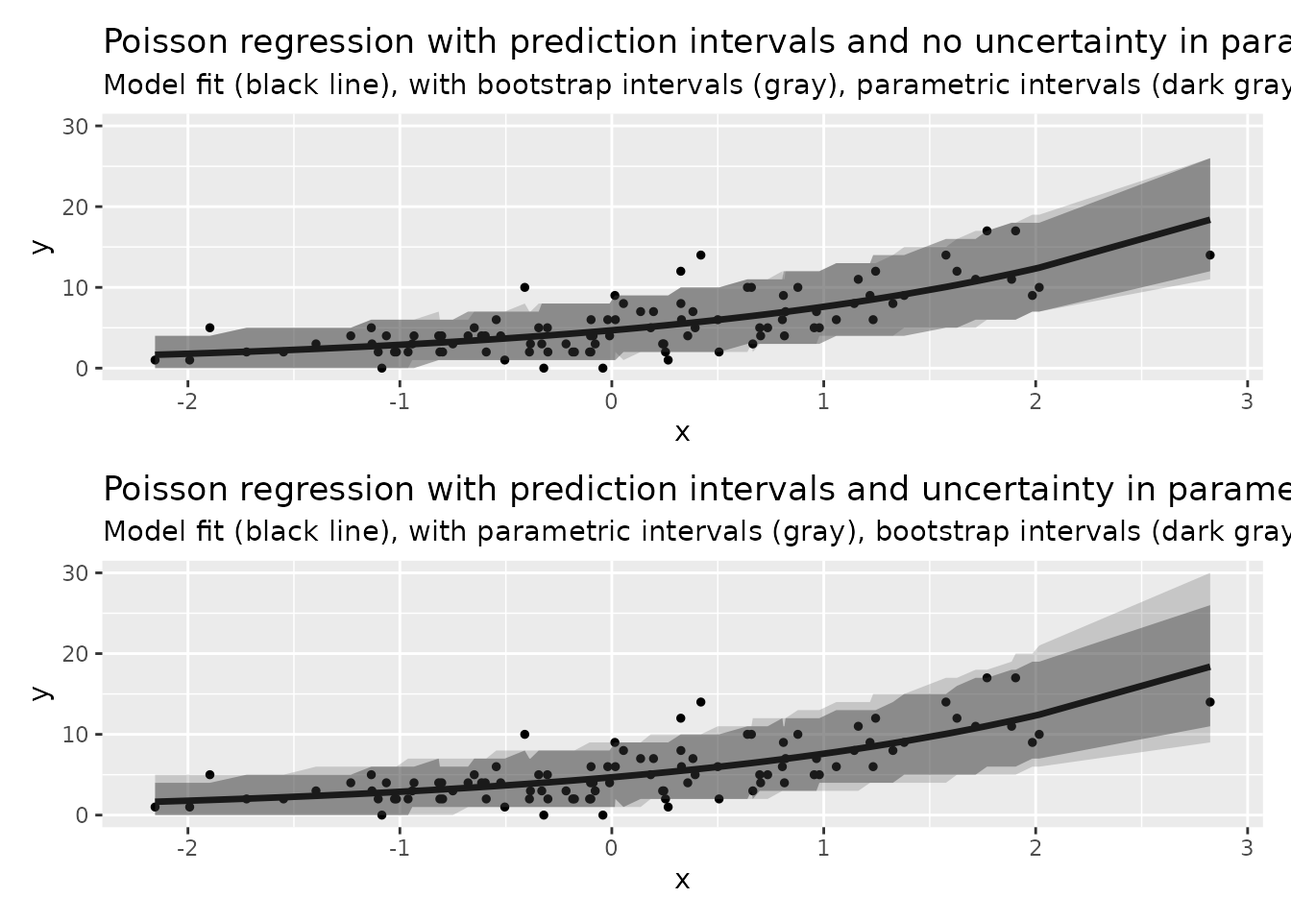
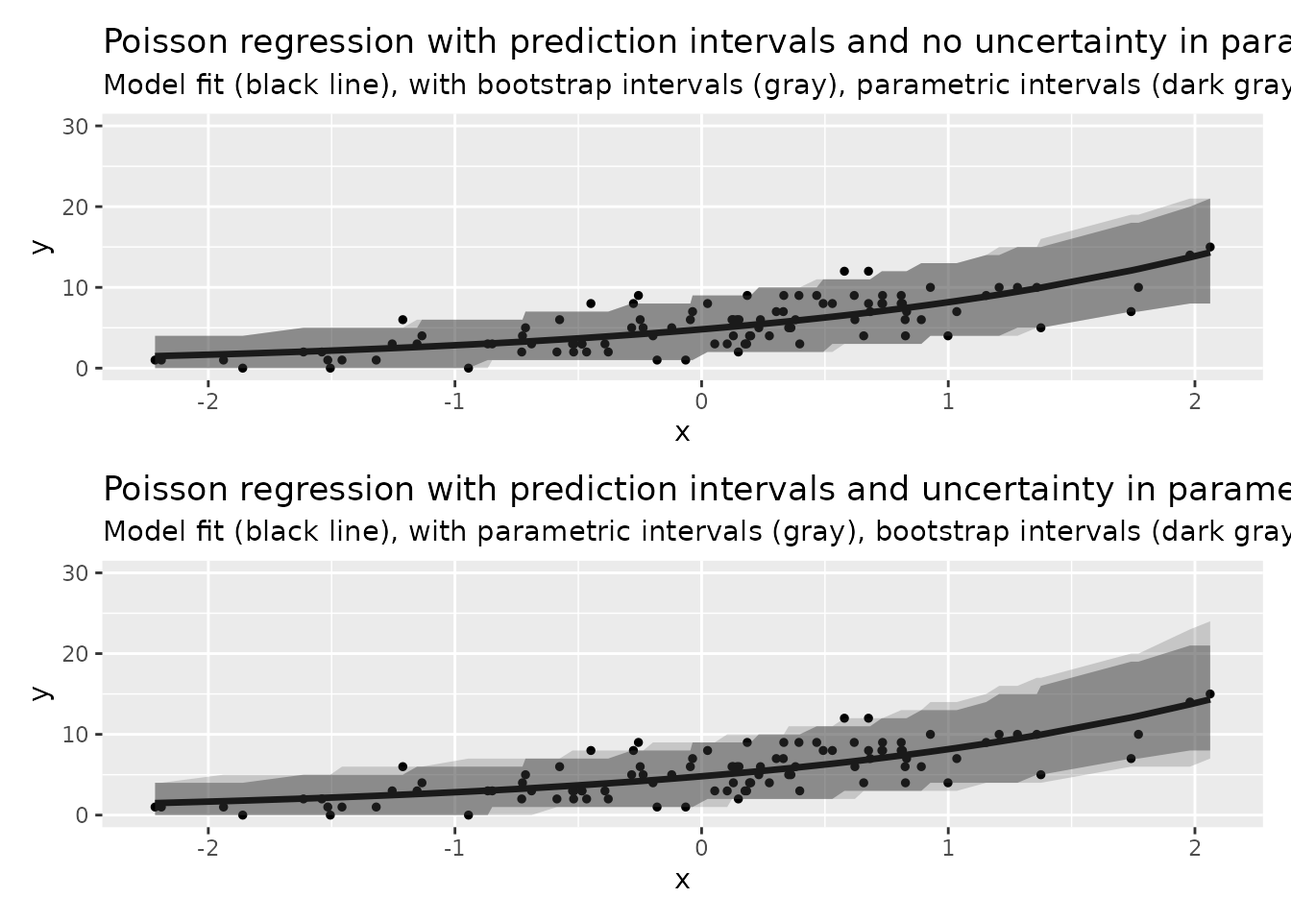
Deploying to gh-pages from @ reconverse/trending@092e5bef457bccd42e0b6546bdbc8bc8f6f4471c 🚀

Changed region(s): [[0.125, 0.625, 0.9375, 0.9062], [0.125, 0.1562, 0.9375, 0.4062]]

diff --git a/dev/articles/prediction_intervals.html b/dev/articles/prediction_intervals.html
@@ -147,13 +147,13 @@ glm vignette</a>:</p>
 <span><span class="co">#&gt; Warning in add_pi.glm(dat, fit, names = c("lpb", "upb"), alpha = 0.1, nsims =</span></span>
 <span><span class="co">#&gt; 20000): The response is not continuous, so Prediction Intervals are approximate</span></span>
 <span><span class="fu"><a href="https://rdrr.io/r/utils/head.html" class="external-link">head</a></span><span class="op">(</span><span class="va">dat1</span><span class="op">)</span></span>
-<span><span class="co">#&gt;            x  y     pred lpb upb</span></span>
-<span><span class="co">#&gt; 1  0.9656033  7 7.478368   3  12</span></span>
-<span><span class="co">#&gt; 2 -0.3886679  2 3.882521   1   7</span></span>
-<span><span class="co">#&gt; 3  1.2446994 12 8.560084   4  13</span></span>
-<span><span class="co">#&gt; 4  0.5060423  2 5.986853   2  10</span></span>
-<span><span class="co">#&gt; 5 -0.5242486  4 3.635903   1   7</span></span>
-<span><span class="co">#&gt; 6  0.3254378 12 5.485701   2  10</span></span>
+<span><span class="co">#&gt;            x y     pred lpb upb</span></span>
+<span><span class="co">#&gt; 1 -0.2371830 5 4.238952   1   8</span></span>
+<span><span class="co">#&gt; 2  0.3027586 7 5.642549   2  10</span></span>
+<span><span class="co">#&gt; 3 -0.4662134 2 3.754643   1   7</span></span>
+<span><span class="co">#&gt; 4 -0.5188776 2 3.651346   1   7</span></span>
+<span><span class="co">#&gt; 5  0.8089458 8 7.377797   3  12</span></span>
+<span><span class="co">#&gt; 6  0.8142616 8 7.398602   3  12</span></span>
 <span></span>
 <span><span class="co"># add intervals with trending (no uncertainty in parameters)</span></span>
 <span><span class="va">poisson_model</span> <span class="op">&lt;-</span> <span class="fu"><a href="../reference/trending_model.html">glm_model</a></span><span class="op">(</span><span class="va">y</span> <span class="op">~</span> <span class="va">x</span>, family <span class="op">=</span> <span class="st">"poisson"</span><span class="op">)</span></span>
@@ -164,12 +164,12 @@ glm vignette</a>:</p>
 <span><span class="co">#&gt; <span style="color: #949494;">&lt;trending_prediction&gt; 6 x 7</span></span></span>
 <span><span class="co">#&gt;       y      x estimate lower_ci upper_ci lower_pi upper_pi</span></span>
 <span><span class="co">#&gt;   <span style="color: #949494; font-style: italic;">&lt;int&gt;</span>  <span style="color: #949494; font-style: italic;">&lt;dbl&gt;</span>    <span style="color: #949494; font-style: italic;">&lt;dbl&gt;</span>    <span style="color: #949494; font-style: italic;">&lt;dbl&gt;</span>    <span style="color: #949494; font-style: italic;">&lt;dbl&gt;</span>    <span style="color: #949494; font-style: italic;">&lt;dbl&gt;</span>    <span style="color: #949494; font-style: italic;">&lt;dbl&gt;</span></span></span>
-<span><span class="co">#&gt; <span style="color: #BCBCBC;">1</span>     7  0.966     7.48     6.93     8.07        3       12</span></span>
-<span><span class="co">#&gt; <span style="color: #BCBCBC;">2</span>     2 -<span style="color: #BB0000;">0.389</span>     3.88     3.52     4.28        1        7</span></span>
-<span><span class="co">#&gt; <span style="color: #BCBCBC;">3</span>    12  1.24      8.56     7.86     9.32        4       14</span></span>
-<span><span class="co">#&gt; <span style="color: #BCBCBC;">4</span>     2  0.506     5.99     5.58     6.42        2       10</span></span>
-<span><span class="co">#&gt; <span style="color: #BCBCBC;">5</span>     4 -<span style="color: #BB0000;">0.524</span>     3.64     3.28     4.03        1        7</span></span>
-<span><span class="co">#&gt; <span style="color: #BCBCBC;">6</span>    12  0.325     5.49     5.10     5.90        2       10</span></span>
+<span><span class="co">#&gt; <span style="color: #BCBCBC;">1</span>     5 -<span style="color: #BB0000;">0.237</span>     4.24     3.88     4.64        1        8</span></span>
+<span><span class="co">#&gt; <span style="color: #BCBCBC;">2</span>     7  0.303     5.64     5.25     6.06        2       10</span></span>
+<span><span class="co">#&gt; <span style="color: #BCBCBC;">3</span>     2 -<span style="color: #BB0000;">0.466</span>     3.75     3.39     4.16        1        7</span></span>
+<span><span class="co">#&gt; <span style="color: #BCBCBC;">4</span>     2 -<span style="color: #BB0000;">0.519</span>     3.65     3.28     4.06        1        7</span></span>
+<span><span class="co">#&gt; <span style="color: #BCBCBC;">5</span>     8  0.809     7.38     6.82     7.98        3       12</span></span>
+<span><span class="co">#&gt; <span style="color: #BCBCBC;">6</span>     8  0.814     7.40     6.84     8.00        3       12</span></span>
 <span></span>
 <span><span class="co"># add intervals with trending (uncertainty in parameters)</span></span>
 <span><span class="va">dat3</span> <span class="op">&lt;-</span> <span class="fu"><a href="https://rdrr.io/r/stats/predict.html" class="external-link">predict</a></span><span class="op">(</span><span class="va">fitted_model</span>, simulate_pi <span class="op">=</span> <span class="cn">FALSE</span>, alpha <span class="op">=</span> <span class="fl">0.1</span><span class="op">)</span></span>
@@ -178,12 +178,12 @@ glm vignette</a>:</p>
 <span><span class="co">#&gt; <span style="color: #949494;">&lt;trending_prediction&gt; 6 x 7</span></span></span>
 <span><span class="co">#&gt;       y      x estimate lower_ci upper_ci lower_pi upper_pi</span></span>
 <span><span class="co">#&gt;   <span style="color: #949494; font-style: italic;">&lt;int&gt;</span>  <span style="color: #949494; font-style: italic;">&lt;dbl&gt;</span>    <span style="color: #949494; font-style: italic;">&lt;dbl&gt;</span>    <span style="color: #949494; font-style: italic;">&lt;dbl&gt;</span>    <span style="color: #949494; font-style: italic;">&lt;dbl&gt;</span>    <span style="color: #949494; font-style: italic;">&lt;dbl&gt;</span>    <span style="color: #949494; font-style: italic;">&lt;dbl&gt;</span></span></span>
-<span><span class="co">#&gt; <span style="color: #BCBCBC;">1</span>     7  0.966     7.48     6.93     8.07        3       13</span></span>
-<span><span class="co">#&gt; <span style="color: #BCBCBC;">2</span>     2 -<span style="color: #BB0000;">0.389</span>     3.88     3.52     4.28        1        8</span></span>
-<span><span class="co">#&gt; <span style="color: #BCBCBC;">3</span>    12  1.24      8.56     7.86     9.32        4       15</span></span>
-<span><span class="co">#&gt; <span style="color: #BCBCBC;">4</span>     2  0.506     5.99     5.58     6.42        2       11</span></span>
-<span><span class="co">#&gt; <span style="color: #BCBCBC;">5</span>     4 -<span style="color: #BB0000;">0.524</span>     3.64     3.28     4.03        1        8</span></span>
-<span><span class="co">#&gt; <span style="color: #BCBCBC;">6</span>    12  0.325     5.49     5.10     5.90        2       10</span></span>
+<span><span class="co">#&gt; <span style="color: #BCBCBC;">1</span>     5 -<span style="color: #BB0000;">0.237</span>     4.24     3.88     4.64        1        8</span></span>
+<span><span class="co">#&gt; <span style="color: #BCBCBC;">2</span>     7  0.303     5.64     5.25     6.06        2       10</span></span>
+<span><span class="co">#&gt; <span style="color: #BCBCBC;">3</span>     2 -<span style="color: #BB0000;">0.466</span>     3.75     3.39     4.16        1        8</span></span>
+<span><span class="co">#&gt; <span style="color: #BCBCBC;">4</span>     2 -<span style="color: #BB0000;">0.519</span>     3.65     3.28     4.06        1        8</span></span>
+<span><span class="co">#&gt; <span style="color: #BCBCBC;">5</span>     8  0.809     7.38     6.82     7.98        3       13</span></span>
+<span><span class="co">#&gt; <span style="color: #BCBCBC;">6</span>     8  0.814     7.40     6.84     8.00        3       13</span></span>
 <span></span>
 <span><span class="co"># plots</span></span>
 <span><span class="va">p1</span> <span class="op">&lt;-</span> <span class="fu"><a href="https://ggplot2.tidyverse.org/reference/ggplot.html" class="external-link">ggplot</a></span><span class="op">(</span><span class="va">dat1</span>, <span class="fu"><a href="https://ggplot2.tidyverse.org/reference/aes.html" class="external-link">aes</a></span><span class="op">(</span><span class="va">x</span>, <span class="va">y</span><span class="op">)</span><span class="op">)</span> <span class="op">+</span></span>
@@ -230,12 +230,12 @@ glm vignette</a>:</p>
 <span><span class="co">#&gt; 20000): The response is not continuous, so Prediction Intervals are approximate</span></span>
 <span><span class="fu"><a href="https://rdrr.io/r/utils/head.html" class="external-link">head</a></span><span class="op">(</span><span class="va">dat1</span><span class="op">)</span></span>
 <span><span class="co">#&gt;           x  y      pred lpb upb</span></span>
-<span><span class="co">#&gt; 1 0.6870865  5  5.204962   0  15</span></span>
-<span><span class="co">#&gt; 2 1.5555912  0 13.931078   3  29</span></span>
-<span><span class="co">#&gt; 3 0.1915422  7  2.967972   0  10</span></span>
-<span><span class="co">#&gt; 4 1.0723759 13  8.055575   1  20</span></span>
-<span><span class="co">#&gt; 5 1.6269971 13 15.105602   4  31</span></span>
-<span><span class="co">#&gt; 6 1.6730471  7 15.915072   4  33</span></span>
+<span><span class="co">#&gt; 1 1.3185688  7  9.315308   2  20</span></span>
+<span><span class="co">#&gt; 2 0.8402462  6  5.094015   0  13</span></span>
+<span><span class="co">#&gt; 3 1.6213157 16 13.649373   4  27</span></span>
+<span><span class="co">#&gt; 4 1.0692339  6  6.800694   1  16</span></span>
+<span><span class="co">#&gt; 5 0.3934254  2  2.898594   0  10</span></span>
+<span><span class="co">#&gt; 6 0.2041044 12  2.282617   0   8</span></span>
 <span></span>
 <span><span class="co"># add intervals with trending (no uncertainty in parameters)</span></span>
 <span><span class="va">quasipoisson_model</span> <span class="op">&lt;-</span> <span class="fu"><a href="../reference/trending_model.html">glm_model</a></span><span class="op">(</span><span class="va">y</span> <span class="op">~</span> <span class="va">x</span>, family <span class="op">=</span> <span class="fu"><a href="https://rdrr.io/r/stats/family.html" class="external-link">quasipoisson</a></span><span class="op">(</span>link <span class="op">=</span> <span class="st">"log"</span><span class="op">)</span><span class="op">)</span></span>
@@ -246,12 +246,12 @@ glm vignette</a>:</p>
 <span><span class="co">#&gt; <span style="color: #949494;">&lt;trending_prediction&gt; 6 x 7</span></span></span>
 <span><span class="co">#&gt;       y     x estimate lower_ci upper_ci lower_pi upper_pi</span></span>
 <span><span class="co">#&gt;   <span style="color: #949494; font-style: italic;">&lt;int&gt;</span> <span style="color: #949494; font-style: italic;">&lt;dbl&gt;</span>    <span style="color: #949494; font-style: italic;">&lt;dbl&gt;</span>    <span style="color: #949494; font-style: italic;">&lt;dbl&gt;</span>    <span style="color: #949494; font-style: italic;">&lt;dbl&gt;</span>    <span style="color: #949494; font-style: italic;">&lt;dbl&gt;</span>    <span style="color: #949494; font-style: italic;">&lt;dbl&gt;</span></span></span>
-<span><span class="co">#&gt; <span style="color: #BCBCBC;">1</span>     5 0.687     5.20     4.28     6.33        0       15</span></span>
-<span><span class="co">#&gt; <span style="color: #BCBCBC;">2</span>     0 1.56     13.9     12.3     15.8         3       29</span></span>
-<span><span class="co">#&gt; <span style="color: #BCBCBC;">3</span>     7 0.192     2.97     2.21     3.98        0       11</span></span>
-<span><span class="co">#&gt; <span style="color: #BCBCBC;">4</span>    13 1.07      8.06     7.03     9.23        1       20</span></span>
-<span><span class="co">#&gt; <span style="color: #BCBCBC;">5</span>    13 1.63     15.1     13.2     17.3         4       31</span></span>
-<span><span class="co">#&gt; <span style="color: #BCBCBC;">6</span>     7 1.67     15.9     13.8     18.3         4       32</span></span>
+<span><span class="co">#&gt; <span style="color: #BCBCBC;">1</span>     7 1.32      9.32     8.34    10.4         2       20</span></span>
+<span><span class="co">#&gt; <span style="color: #BCBCBC;">2</span>     6 0.840     5.09     4.35     5.97        0       13</span></span>
+<span><span class="co">#&gt; <span style="color: #BCBCBC;">3</span>    16 1.62     13.6     12.0     15.5         4       26</span></span>
+<span><span class="co">#&gt; <span style="color: #BCBCBC;">4</span>     6 1.07      6.80     5.99     7.72        1       16</span></span>
+<span><span class="co">#&gt; <span style="color: #BCBCBC;">5</span>     2 0.393     2.90     2.28     3.69        0        9</span></span>
+<span><span class="co">#&gt; <span style="color: #BCBCBC;">6</span>    12 0.204     2.28     1.72     3.02        0        8</span></span>
 <span></span>
 <span><span class="co"># add intervals with trending (uncertainty in parameters)</span></span>
 <span><span class="va">dat3</span> <span class="op">&lt;-</span> <span class="fu"><a href="https://rdrr.io/r/stats/predict.html" class="external-link">predict</a></span><span class="op">(</span><span class="va">fitted_model</span>, simulate_pi <span class="op">=</span> <span class="cn">FALSE</span>, alpha <span class="op">=</span> <span class="fl">0.1</span><span class="op">)</span></span>
@@ -260,12 +260,12 @@ glm vignette</a>:</p>
 <span><span class="co">#&gt; <span style="color: #949494;">&lt;trending_prediction&gt; 6 x 7</span></span></span>
 <span><span class="co">#&gt;       y     x estimate lower_ci upper_ci lower_pi upper_pi</span></span>
 <span><span class="co">#&gt;   <span style="color: #949494; font-style: italic;">&lt;int&gt;</span> <span style="color: #949494; font-style: italic;">&lt;dbl&gt;</span>    <span style="color: #949494; font-style: italic;">&lt;dbl&gt;</span>    <span style="color: #949494; font-style: italic;">&lt;dbl&gt;</span>    <span style="color: #949494; font-style: italic;">&lt;dbl&gt;</span>    <span style="color: #949494; font-style: italic;">&lt;dbl&gt;</span>    <span style="color: #949494; font-style: italic;">&lt;dbl&gt;</span></span></span>
-<span><span class="co">#&gt; <span style="color: #BCBCBC;">1</span>     5 0.687     5.20     4.28     6.33        0       17</span></span>
-<span><span class="co">#&gt; <span style="color: #BCBCBC;">2</span>     0 1.56     13.9     12.3     15.8         3       32</span></span>
-<span><span class="co">#&gt; <span style="color: #BCBCBC;">3</span>     7 0.192     2.97     2.21     3.98        0       13</span></span>
-<span><span class="co">#&gt; <span style="color: #BCBCBC;">4</span>    13 1.07      8.06     7.03     9.23        0       22</span></span>
-<span><span class="co">#&gt; <span style="color: #BCBCBC;">5</span>    13 1.63     15.1     13.2     17.3         3       34</span></span>
-<span><span class="co">#&gt; <span style="color: #BCBCBC;">6</span>     7 1.67     15.9     13.8     18.3         3       36</span></span>
+<span><span class="co">#&gt; <span style="color: #BCBCBC;">1</span>     7 1.32      9.32     8.34    10.4         2       22</span></span>
+<span><span class="co">#&gt; <span style="color: #BCBCBC;">2</span>     6 0.840     5.09     4.35     5.97        0       15</span></span>
+<span><span class="co">#&gt; <span style="color: #BCBCBC;">3</span>    16 1.62     13.6     12.0     15.5         3       29</span></span>
+<span><span class="co">#&gt; <span style="color: #BCBCBC;">4</span>     6 1.07      6.80     5.99     7.72        1       17</span></span>
+<span><span class="co">#&gt; <span style="color: #BCBCBC;">5</span>     2 0.393     2.90     2.28     3.69        0       11</span></span>
+<span><span class="co">#&gt; <span style="color: #BCBCBC;">6</span>    12 0.204     2.28     1.72     3.02        0        9</span></span>
 <span></span>
 <span><span class="co"># plots</span></span>
 <span><span class="va">p3</span> <span class="op">&lt;-</span> <span class="fu"><a href="https://ggplot2.tidyverse.org/reference/ggplot.html" class="external-link">ggplot</a></span><span class="op">(</span><span class="va">dat1</span>, <span class="fu"><a href="https://ggplot2.tidyverse.org/reference/aes.html" class="external-link">aes</a></span><span class="op">(</span><span class="va">x</span>, <span class="va">y</span><span class="op">)</span><span class="op">)</span> <span class="op">+</span></span>

diff --git a/dev/articles/Introduction.html b/dev/articles/Introduction.html
@@ -240,20 +240,20 @@ list.</p></li>
 <span><span class="co">#&gt; <span style="color: #949494;">&lt;trending_prediction&gt; 14 x 8</span></span></span>
 <span><span class="co">#&gt;    date         day weekday      estimate lower_ci upper_ci lower_pi upper_pi</span></span>
 <span><span class="co">#&gt;    <span style="color: #949494; font-style: italic;">&lt;date&gt;</span>     <span style="color: #949494; font-style: italic;">&lt;int&gt;</span> <span style="color: #949494; font-style: italic;">&lt;fct&gt;</span>           <span style="color: #949494; font-style: italic;">&lt;dbl&gt;</span>    <span style="color: #949494; font-style: italic;">&lt;dbl&gt;</span>    <span style="color: #949494; font-style: italic;">&lt;dbl&gt;</span>    <span style="color: #949494; font-style: italic;">&lt;dbl&gt;</span>    <span style="color: #949494; font-style: italic;">&lt;dbl&gt;</span></span></span>
-<span><span class="co">#&gt; <span style="color: #BCBCBC;"> 1</span> 2020-05-15    58 rest_of_week   <span style="text-decoration: underline;">12</span>682.   <span style="text-decoration: underline;">11</span>390.   <span style="text-decoration: underline;">14</span>122.     <span style="text-decoration: underline;">8</span>817    <span style="text-decoration: underline;">17</span>315</span></span>
-<span><span class="co">#&gt; <span style="color: #BCBCBC;"> 2</span> 2020-05-16    59 weekend        <span style="text-decoration: underline;">10</span>625.    <span style="text-decoration: underline;">9</span>299.   <span style="text-decoration: underline;">12</span>140.     <span style="text-decoration: underline;">7</span>413    <span style="text-decoration: underline;">14</span>621</span></span>
-<span><span class="co">#&gt; <span style="color: #BCBCBC;"> 3</span> 2020-05-17    60 weekend        <span style="text-decoration: underline;">10</span>262.    <span style="text-decoration: underline;">8</span>956.   <span style="text-decoration: underline;">11</span>759.     <span style="text-decoration: underline;">7</span>221    <span style="text-decoration: underline;">14</span>228</span></span>
-<span><span class="co">#&gt; <span style="color: #BCBCBC;"> 4</span> 2020-05-18    61 monday         <span style="text-decoration: underline;">13</span>840.   <span style="text-decoration: underline;">11</span>749.   <span style="text-decoration: underline;">16</span>303.     <span style="text-decoration: underline;">9</span>639    <span style="text-decoration: underline;">19</span>145</span></span>
-<span><span class="co">#&gt; <span style="color: #BCBCBC;"> 5</span> 2020-05-19    62 rest_of_week   <span style="text-decoration: underline;">11</span>036.    <span style="text-decoration: underline;">9</span>782.   <span style="text-decoration: underline;">12</span>450.     <span style="text-decoration: underline;">7</span>771    <span style="text-decoration: underline;">15</span>271</span></span>
-<span><span class="co">#&gt; <span style="color: #BCBCBC;"> 6</span> 2020-05-20    63 rest_of_week   <span style="text-decoration: underline;">10</span>659.    <span style="text-decoration: underline;">9</span>416.   <span style="text-decoration: underline;">12</span>066.     <span style="text-decoration: underline;">7</span>572    <span style="text-decoration: underline;">14</span>603</span></span>
-<span><span class="co">#&gt; <span style="color: #BCBCBC;"> 7</span> 2020-05-21    64 rest_of_week   <span style="text-decoration: underline;">10</span>295.    <span style="text-decoration: underline;">9</span>064.   <span style="text-decoration: underline;">11</span>693.     <span style="text-decoration: underline;">7</span>188    <span style="text-decoration: underline;">14</span>059</span></span>
-<span><span class="co">#&gt; <span style="color: #BCBCBC;"> 8</span> 2020-05-22    65 rest_of_week    <span style="text-decoration: underline;">9</span>943.    <span style="text-decoration: underline;">8</span>724.   <span style="text-decoration: underline;">11</span>333.     <span style="text-decoration: underline;">6</span>925    <span style="text-decoration: underline;">13</span>642</span></span>
-<span><span class="co">#&gt; <span style="color: #BCBCBC;"> 9</span> 2020-05-23    66 weekend         <span style="text-decoration: underline;">8</span>330.    <span style="text-decoration: underline;">7</span>138.    <span style="text-decoration: underline;">9</span>721.     <span style="text-decoration: underline;">5</span>704    <span style="text-decoration: underline;">11</span>511</span></span>
-<span><span class="co">#&gt; <span style="color: #BCBCBC;">10</span> 2020-05-24    67 weekend         <span style="text-decoration: underline;">8</span>045.    <span style="text-decoration: underline;">6</span>872.    <span style="text-decoration: underline;">9</span>419.     <span style="text-decoration: underline;">5</span>450    <span style="text-decoration: underline;">11</span>391</span></span>
-<span><span class="co">#&gt; <span style="color: #BCBCBC;">11</span> 2020-05-25    68 monday         <span style="text-decoration: underline;">10</span>851.    <span style="text-decoration: underline;">9</span>048.   <span style="text-decoration: underline;">13</span>012.     <span style="text-decoration: underline;">7</span>633    <span style="text-decoration: underline;">15</span>412</span></span>
-<span><span class="co">#&gt; <span style="color: #BCBCBC;">12</span> 2020-05-26    69 rest_of_week    <span style="text-decoration: underline;">8</span>652.    <span style="text-decoration: underline;">7</span>486.   <span style="text-decoration: underline;">10</span>001.     <span style="text-decoration: underline;">5</span>985    <span style="text-decoration: underline;">12</span>216</span></span>
-<span><span class="co">#&gt; <span style="color: #BCBCBC;">13</span> 2020-05-27    70 rest_of_week    <span style="text-decoration: underline;">8</span>357.    <span style="text-decoration: underline;">7</span>204.    <span style="text-decoration: underline;">9</span>694.     <span style="text-decoration: underline;">5</span>704    <span style="text-decoration: underline;">11</span>347</span></span>
-<span><span class="co">#&gt; <span style="color: #BCBCBC;">14</span> 2020-05-28    71 rest_of_week    <span style="text-decoration: underline;">8</span>071.    <span style="text-decoration: underline;">6</span>933.    <span style="text-decoration: underline;">9</span>396.     <span style="text-decoration: underline;">5</span>633    <span style="text-decoration: underline;">11</span>269</span></span></code></pre></div>
+<span><span class="co">#&gt; <span style="color: #BCBCBC;"> 1</span> 2020-05-15    58 rest_of_week   <span style="text-decoration: underline;">12</span>682.   <span style="text-decoration: underline;">11</span>390.   <span style="text-decoration: underline;">14</span>122.     <span style="text-decoration: underline;">8</span>819    <span style="text-decoration: underline;">17</span>213</span></span>
+<span><span class="co">#&gt; <span style="color: #BCBCBC;"> 2</span> 2020-05-16    59 weekend        <span style="text-decoration: underline;">10</span>625.    <span style="text-decoration: underline;">9</span>299.   <span style="text-decoration: underline;">12</span>140.     <span style="text-decoration: underline;">7</span>347    <span style="text-decoration: underline;">14</span>590</span></span>
+<span><span class="co">#&gt; <span style="color: #BCBCBC;"> 3</span> 2020-05-17    60 weekend        <span style="text-decoration: underline;">10</span>262.    <span style="text-decoration: underline;">8</span>956.   <span style="text-decoration: underline;">11</span>759.     <span style="text-decoration: underline;">7</span>215    <span style="text-decoration: underline;">13</span>960</span></span>
+<span><span class="co">#&gt; <span style="color: #BCBCBC;"> 4</span> 2020-05-18    61 monday         <span style="text-decoration: underline;">13</span>840.   <span style="text-decoration: underline;">11</span>749.   <span style="text-decoration: underline;">16</span>303.     <span style="text-decoration: underline;">9</span>526    <span style="text-decoration: underline;">19</span>036</span></span>
+<span><span class="co">#&gt; <span style="color: #BCBCBC;"> 5</span> 2020-05-19    62 rest_of_week   <span style="text-decoration: underline;">11</span>036.    <span style="text-decoration: underline;">9</span>782.   <span style="text-decoration: underline;">12</span>450.     <span style="text-decoration: underline;">7</span>655    <span style="text-decoration: underline;">14</span>853</span></span>
+<span><span class="co">#&gt; <span style="color: #BCBCBC;"> 6</span> 2020-05-20    63 rest_of_week   <span style="text-decoration: underline;">10</span>659.    <span style="text-decoration: underline;">9</span>416.   <span style="text-decoration: underline;">12</span>066.     <span style="text-decoration: underline;">7</span>404    <span style="text-decoration: underline;">14</span>528</span></span>
+<span><span class="co">#&gt; <span style="color: #BCBCBC;"> 7</span> 2020-05-21    64 rest_of_week   <span style="text-decoration: underline;">10</span>295.    <span style="text-decoration: underline;">9</span>064.   <span style="text-decoration: underline;">11</span>693.     <span style="text-decoration: underline;">7</span>244    <span style="text-decoration: underline;">13</span>867</span></span>
+<span><span class="co">#&gt; <span style="color: #BCBCBC;"> 8</span> 2020-05-22    65 rest_of_week    <span style="text-decoration: underline;">9</span>943.    <span style="text-decoration: underline;">8</span>724.   <span style="text-decoration: underline;">11</span>333.     <span style="text-decoration: underline;">6</span>834    <span style="text-decoration: underline;">13</span>646</span></span>
+<span><span class="co">#&gt; <span style="color: #BCBCBC;"> 9</span> 2020-05-23    66 weekend         <span style="text-decoration: underline;">8</span>330.    <span style="text-decoration: underline;">7</span>138.    <span style="text-decoration: underline;">9</span>721.     <span style="text-decoration: underline;">5</span>627    <span style="text-decoration: underline;">11</span>459</span></span>
+<span><span class="co">#&gt; <span style="color: #BCBCBC;">10</span> 2020-05-24    67 weekend         <span style="text-decoration: underline;">8</span>045.    <span style="text-decoration: underline;">6</span>872.    <span style="text-decoration: underline;">9</span>419.     <span style="text-decoration: underline;">5</span>524    <span style="text-decoration: underline;">10</span>948</span></span>
+<span><span class="co">#&gt; <span style="color: #BCBCBC;">11</span> 2020-05-25    68 monday         <span style="text-decoration: underline;">10</span>851.    <span style="text-decoration: underline;">9</span>048.   <span style="text-decoration: underline;">13</span>012.     <span style="text-decoration: underline;">7</span>248    <span style="text-decoration: underline;">15</span>147</span></span>
+<span><span class="co">#&gt; <span style="color: #BCBCBC;">12</span> 2020-05-26    69 rest_of_week    <span style="text-decoration: underline;">8</span>652.    <span style="text-decoration: underline;">7</span>486.   <span style="text-decoration: underline;">10</span>001.     <span style="text-decoration: underline;">5</span>954    <span style="text-decoration: underline;">11</span>921</span></span>
+<span><span class="co">#&gt; <span style="color: #BCBCBC;">13</span> 2020-05-27    70 rest_of_week    <span style="text-decoration: underline;">8</span>357.    <span style="text-decoration: underline;">7</span>204.    <span style="text-decoration: underline;">9</span>694.     <span style="text-decoration: underline;">5</span>699    <span style="text-decoration: underline;">11</span>494</span></span>
+<span><span class="co">#&gt; <span style="color: #BCBCBC;">14</span> 2020-05-28    71 rest_of_week    <span style="text-decoration: underline;">8</span>071.    <span style="text-decoration: underline;">6</span>933.    <span style="text-decoration: underline;">9</span>396.     <span style="text-decoration: underline;">5</span>611    <span style="text-decoration: underline;">11</span>173</span></span></code></pre></div>
 </div>
 <div class="section level3">
 <h3 id="example-of-failed-model-fitting">Example of failed model fitting<a class="anchor" aria-label="anchor" href="#example-of-failed-model-fitting"></a>

diff --git a/dev/reference/predict.trending_model.html b/dev/reference/predict.trending_model.html
@@ -180,18 +180,18 @@ confidence and or prediction intervals. <code>NULL</code> if the associated
 <span class="r-in"><span><span class="fu"><a href="https://rdrr.io/r/stats/predict.html" class="external-link">predict</a></span><span class="op">(</span><span class="va">poisson_model</span>, <span class="va">dat</span>, as_tibble <span class="op">=</span> <span class="cn">FALSE</span><span class="op">)</span></span></span>
 <span class="r-out co"><span class="r-pr">#&gt;</span> $result</span>
 <span class="r-out co"><span class="r-pr">#&gt;</span> <span style="color: #949494;">&lt;trending_prediction&gt; 100 x 7</span></span>
-<span class="r-out co"><span class="r-pr">#&gt;</span>         x     y estimate lower_ci upper_ci lower_pi upper_pi</span>
-<span class="r-out co"><span class="r-pr">#&gt;</span>     <span style="color: #949494; font-style: italic;">&lt;dbl&gt;</span> <span style="color: #949494; font-style: italic;">&lt;int&gt;</span>    <span style="color: #949494; font-style: italic;">&lt;dbl&gt;</span>    <span style="color: #949494; font-style: italic;">&lt;dbl&gt;</span>    <span style="color: #949494; font-style: italic;">&lt;dbl&gt;</span>    <span style="color: #949494; font-style: italic;">&lt;dbl&gt;</span>    <span style="color: #949494; font-style: italic;">&lt;dbl&gt;</span></span>
-<span class="r-out co"><span class="r-pr">#&gt;</span> <span style="color: #BCBCBC;"> 1</span> -<span style="color: #BB0000;">0.138</span>     2     4.08     3.68     4.52        0        9</span>
-<span class="r-out co"><span class="r-pr">#&gt;</span> <span style="color: #BCBCBC;"> 2</span>  0.517     6     5.59     5.11     6.11        1       11</span>
-<span class="r-out co"><span class="r-pr">#&gt;</span> <span style="color: #BCBCBC;"> 3</span> -<span style="color: #BB0000;">0.197</span>     2     3.96     3.57     4.40        0        9</span>
-<span class="r-out co"><span class="r-pr">#&gt;</span> <span style="color: #BCBCBC;"> 4</span> -<span style="color: #BB0000;">1.85</span>      1     1.79     1.46     2.21        0        6</span>
-<span class="r-out co"><span class="r-pr">#&gt;</span> <span style="color: #BCBCBC;"> 5</span> -<span style="color: #BB0000;">0.575</span>     4     3.31     2.92     3.74        0        8</span>
-<span class="r-out co"><span class="r-pr">#&gt;</span> <span style="color: #BCBCBC;"> 6</span> -<span style="color: #BB0000;">1.77</span>      0     1.87     1.52     2.28        0        6</span>
-<span class="r-out co"><span class="r-pr">#&gt;</span> <span style="color: #BCBCBC;"> 7</span>  0.946     7     6.86     6.23     7.56        2       13</span>
-<span class="r-out co"><span class="r-pr">#&gt;</span> <span style="color: #BCBCBC;"> 8</span> -<span style="color: #BB0000;">1.29</span>      2     2.34     1.98     2.77        0        6</span>
-<span class="r-out co"><span class="r-pr">#&gt;</span> <span style="color: #BCBCBC;"> 9</span> -<span style="color: #BB0000;">0.971</span>     2     2.74     2.36     3.17        0        7</span>
-<span class="r-out co"><span class="r-pr">#&gt;</span> <span style="color: #BCBCBC;">10</span> -<span style="color: #BB0000;">0.861</span>     6     2.88     2.51     3.32        0        7</span>
+<span class="r-out co"><span class="r-pr">#&gt;</span>          x     y estimate lower_ci upper_ci lower_pi upper_pi</span>
+<span class="r-out co"><span class="r-pr">#&gt;</span>      <span style="color: #949494; font-style: italic;">&lt;dbl&gt;</span> <span style="color: #949494; font-style: italic;">&lt;int&gt;</span>    <span style="color: #949494; font-style: italic;">&lt;dbl&gt;</span>    <span style="color: #949494; font-style: italic;">&lt;dbl&gt;</span>    <span style="color: #949494; font-style: italic;">&lt;dbl&gt;</span>    <span style="color: #949494; font-style: italic;">&lt;dbl&gt;</span>    <span style="color: #949494; font-style: italic;">&lt;dbl&gt;</span></span>
+<span class="r-out co"><span class="r-pr">#&gt;</span> <span style="color: #BCBCBC;"> 1</span>  1.00       4     7.10     6.42     7.86        2       14</span>
+<span class="r-out co"><span class="r-pr">#&gt;</span> <span style="color: #BCBCBC;"> 2</span> -<span style="color: #BB0000;">0.205</span>      5     4.49     4.06     4.96        1       10</span>
+<span class="r-out co"><span class="r-pr">#&gt;</span> <span style="color: #BCBCBC;"> 3</span> -<span style="color: #BB0000;">0.802</span>      2     3.58     3.13     4.09        0        8</span>
+<span class="r-out co"><span class="r-pr">#&gt;</span> <span style="color: #BCBCBC;"> 4</span>  1.16       6     7.54     6.76     8.41        2       15</span>
+<span class="r-out co"><span class="r-pr">#&gt;</span> <span style="color: #BCBCBC;"> 5</span> -<span style="color: #BB0000;">1.63</span>       2     2.61     2.15     3.18        0        7</span>
+<span class="r-out co"><span class="r-pr">#&gt;</span> <span style="color: #BCBCBC;"> 6</span> -<span style="color: #BB0000;">0.928</span>      4     3.41     2.95     3.93        0        8</span>
+<span class="r-out co"><span class="r-pr">#&gt;</span> <span style="color: #BCBCBC;"> 7</span>  0.669      6     6.26     5.73     6.85        2       12</span>
+<span class="r-out co"><span class="r-pr">#&gt;</span> <span style="color: #BCBCBC;"> 8</span> -<span style="color: #BB0000;">0.511</span>      6     4.00     3.56     4.49        0        9</span>
+<span class="r-out co"><span class="r-pr">#&gt;</span> <span style="color: #BCBCBC;"> 9</span>  0.781      8     6.53     5.96     7.17        2       13</span>
+<span class="r-out co"><span class="r-pr">#&gt;</span> <span style="color: #BCBCBC;">10</span>  0.073<span style="text-decoration: underline;">7</span>     5     4.99     4.56     5.46        1       10</span>
 <span class="r-out co"><span class="r-pr">#&gt;</span> <span style="color: #949494;"># … with 90 more rows</span></span>
 <span class="r-out co"><span class="r-pr">#&gt;</span> </span>
 <span class="r-out co"><span class="r-pr">#&gt;</span> $warnings</span>

diff --git a/dev/reference/accessors.html b/dev/reference/accessors.html
@@ -250,16 +250,16 @@
 <span class="r-out co"><span class="r-pr">#&gt;</span> </span>
 <span class="r-out co"><span class="r-pr">#&gt;</span> Coefficients:</span>
 <span class="r-out co"><span class="r-pr">#&gt;</span> (Intercept)            x  </span>
-<span class="r-out co"><span class="r-pr">#&gt;</span>      1.4477       0.5276  </span>
+<span class="r-out co"><span class="r-pr">#&gt;</span>       1.451        0.557  </span>
 <span class="r-out co"><span class="r-pr">#&gt;</span> </span>
 <span class="r-out co"><span class="r-pr">#&gt;</span> Degrees of Freedom: 99 Total (i.e. Null);  98 Residual</span>
-<span class="r-out co"><span class="r-pr">#&gt;</span> Null Deviance:	    239.1 </span>
-<span class="r-out co"><span class="r-pr">#&gt;</span> Residual Deviance: 101.4 	AIC: 417.2</span>
+<span class="r-out co"><span class="r-pr">#&gt;</span> Null Deviance:	    211.5 </span>
+<span class="r-out co"><span class="r-pr">#&gt;</span> Residual Deviance: 108.1 	AIC: 423.4</span>
 <span class="r-out co"><span class="r-pr">#&gt;</span> </span>
 <span class="r-in"><span><span class="fu">get_formula</span><span class="op">(</span><span class="va">fitted_poisson</span><span class="op">)</span></span></span>
 <span class="r-out co"><span class="r-pr">#&gt;</span> [[1]]</span>
 <span class="r-out co"><span class="r-pr">#&gt;</span> y ~ x</span>
-<span class="r-out co"><span class="r-pr">#&gt;</span> &lt;environment: 0x56254609d250&gt;</span>
+<span class="r-out co"><span class="r-pr">#&gt;</span> &lt;environment: 0x55e487b30bd8&gt;</span>
 <span class="r-out co"><span class="r-pr">#&gt;</span> </span>
 <span class="r-in"><span><span class="fu">get_response</span><span class="op">(</span><span class="va">fitted_poisson</span><span class="op">)</span></span></span>
 <span class="r-out co"><span class="r-pr">#&gt;</span> [[1]]</span>
